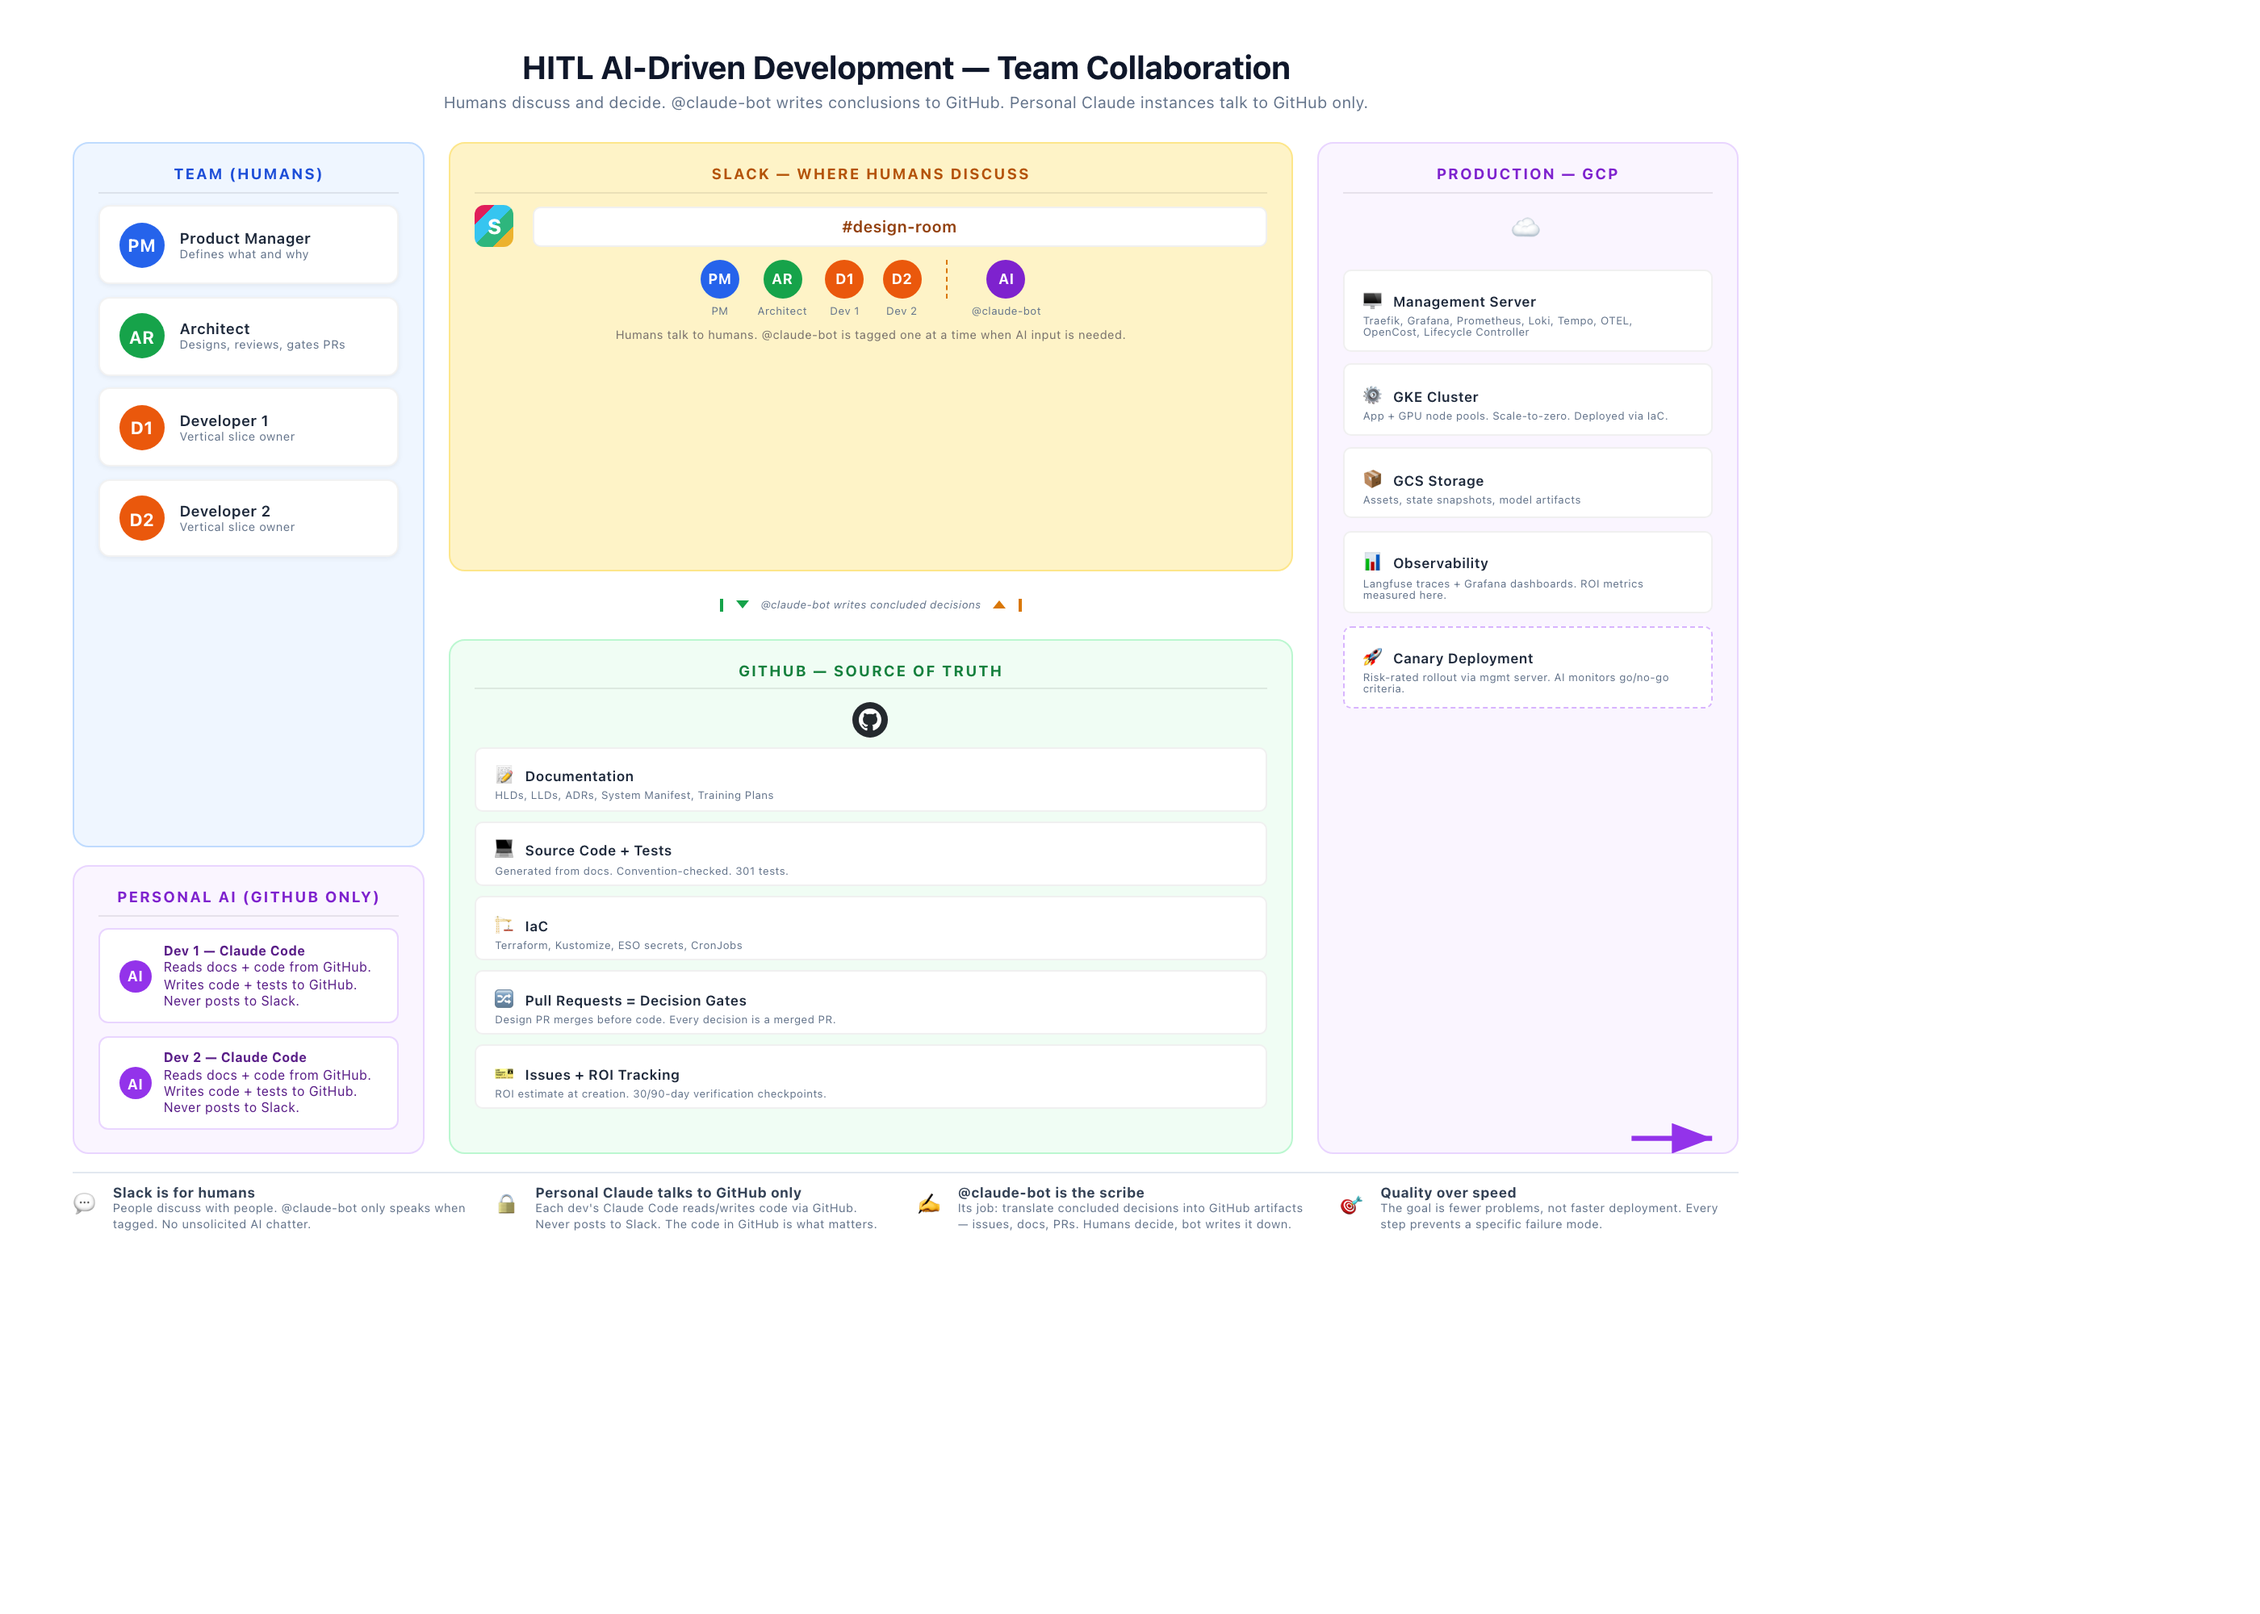
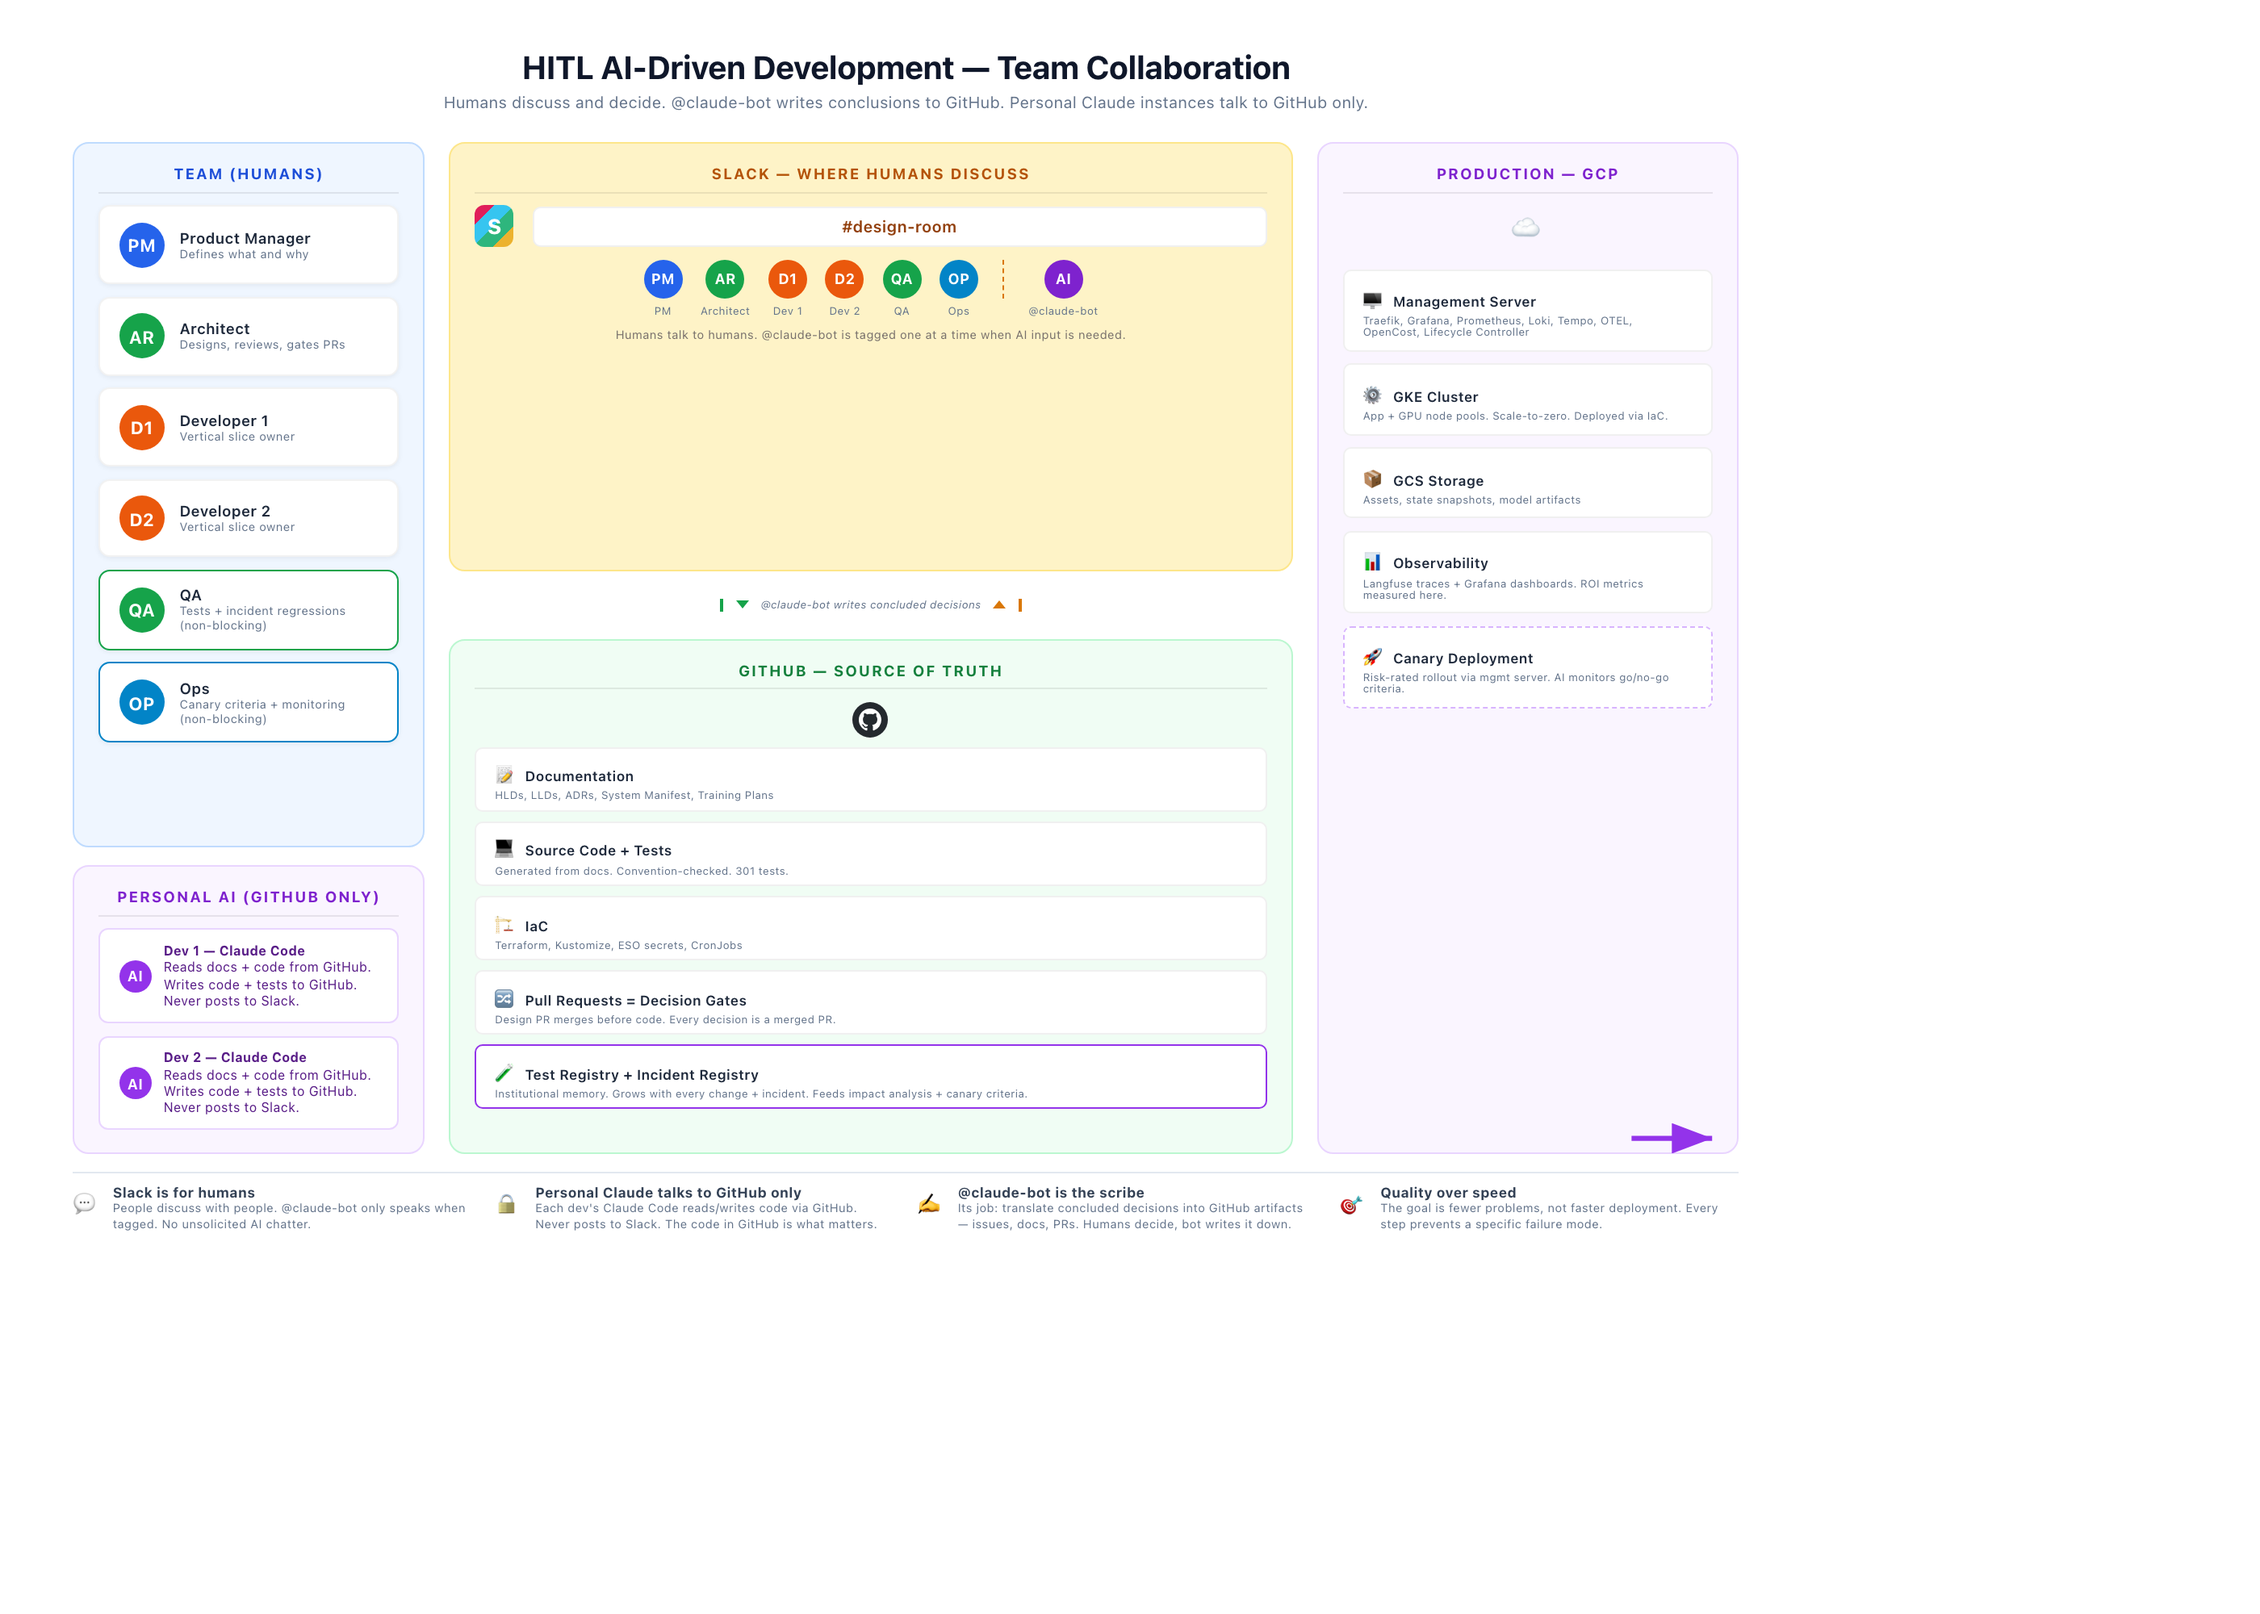
Update infographic with QA, Ops, and Test/Incident Registries

Changed region(s): [[0.0311, 0.341, 0.1243, 0.465], [0.2796, 0.155, 0.4971, 0.186], [0.2175, 0.651, 0.3418, 0.682]]

diff --git a/templates/infographic/collaboration.html b/templates/infographic/collaboration.html
@@ -334,6 +334,14 @@
           <div class="person-icon icon-dev">D2</div>
           <div><div class="person-name">Developer 2</div><div class="person-role">Vertical slice owner</div></div>
         </div>
+        <div class="person" style="border: 1.5px solid #16a34a;">
+          <div class="person-icon" style="background:#16a34a;">QA</div>
+          <div><div class="person-name">QA</div><div class="person-role">Tests + incident regressions (non-blocking)</div></div>
+        </div>
+        <div class="person" style="border: 1.5px solid #0284c7;">
+          <div class="person-icon" style="background:#0284c7;">OP</div>
+          <div><div class="person-name">Ops</div><div class="person-role">Canary criteria + monitoring (non-blocking)</div></div>
+        </div>
       </div>
 
       <div class="panel panel-private">
@@ -367,6 +375,8 @@
             <div class="slack-avatar"><div class="slack-avatar-circle icon-arch">AR</div><div class="slack-avatar-name">Architect</div></div>
             <div class="slack-avatar"><div class="slack-avatar-circle icon-dev">D1</div><div class="slack-avatar-name">Dev 1</div></div>
             <div class="slack-avatar"><div class="slack-avatar-circle icon-dev">D2</div><div class="slack-avatar-name">Dev 2</div></div>
+            <div class="slack-avatar"><div class="slack-avatar-circle" style="background:#16a34a;">QA</div><div class="slack-avatar-name">QA</div></div>
+            <div class="slack-avatar"><div class="slack-avatar-circle" style="background:#0284c7;">OP</div><div class="slack-avatar-name">Ops</div></div>
             <div style="border-left: 1px dashed #d97706; height: 24px; margin: 0 1mm;"></div>
             <div class="slack-avatar"><div class="slack-avatar-circle" style="background:#7e22ce;">AI</div><div class="slack-avatar-name">@claude-bot</div></div>
           </div>
@@ -393,7 +403,7 @@
           <div class="gh-item"><span class="gh-item-icon">💻</span><span class="gh-item-title">Source Code + Tests</span><div class="gh-item-desc">Generated from docs. Convention-checked. 301 tests.</div></div>
           <div class="gh-item"><span class="gh-item-icon">🏗</span><span class="gh-item-title">IaC</span><div class="gh-item-desc">Terraform, Kustomize, ESO secrets, CronJobs</div></div>
           <div class="gh-item"><span class="gh-item-icon">🔀</span><span class="gh-item-title">Pull Requests = Decision Gates</span><div class="gh-item-desc">Design PR merges before code. Every decision is a merged PR.</div></div>
-          <div class="gh-item"><span class="gh-item-icon">🎫</span><span class="gh-item-title">Issues + ROI Tracking</span><div class="gh-item-desc">ROI estimate at creation. 30/90-day verification checkpoints.</div></div>
+          <div class="gh-item" style="border: 1.5px solid #9333ea;"><span class="gh-item-icon">🧪</span><span class="gh-item-title">Test Registry + Incident Registry</span><div class="gh-item-desc">Institutional memory. Grows with every change + incident. Feeds impact analysis + canary criteria.</div></div>
         </div>
       </div>
 
